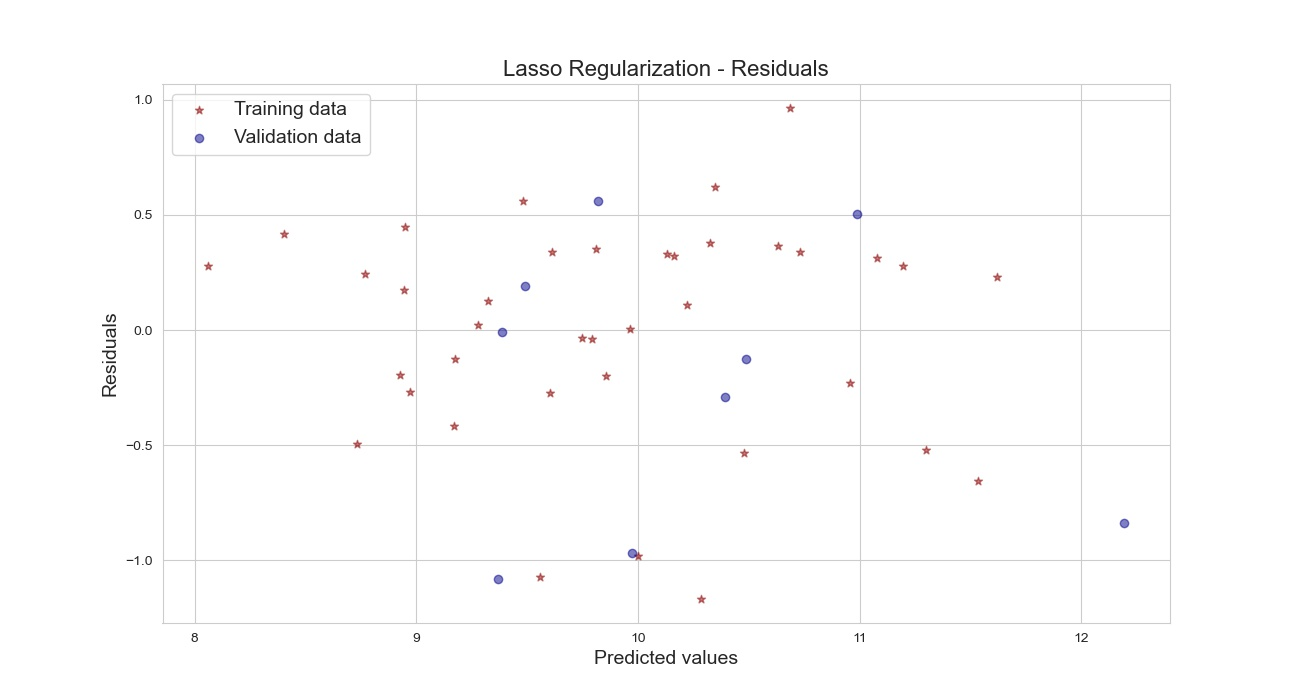
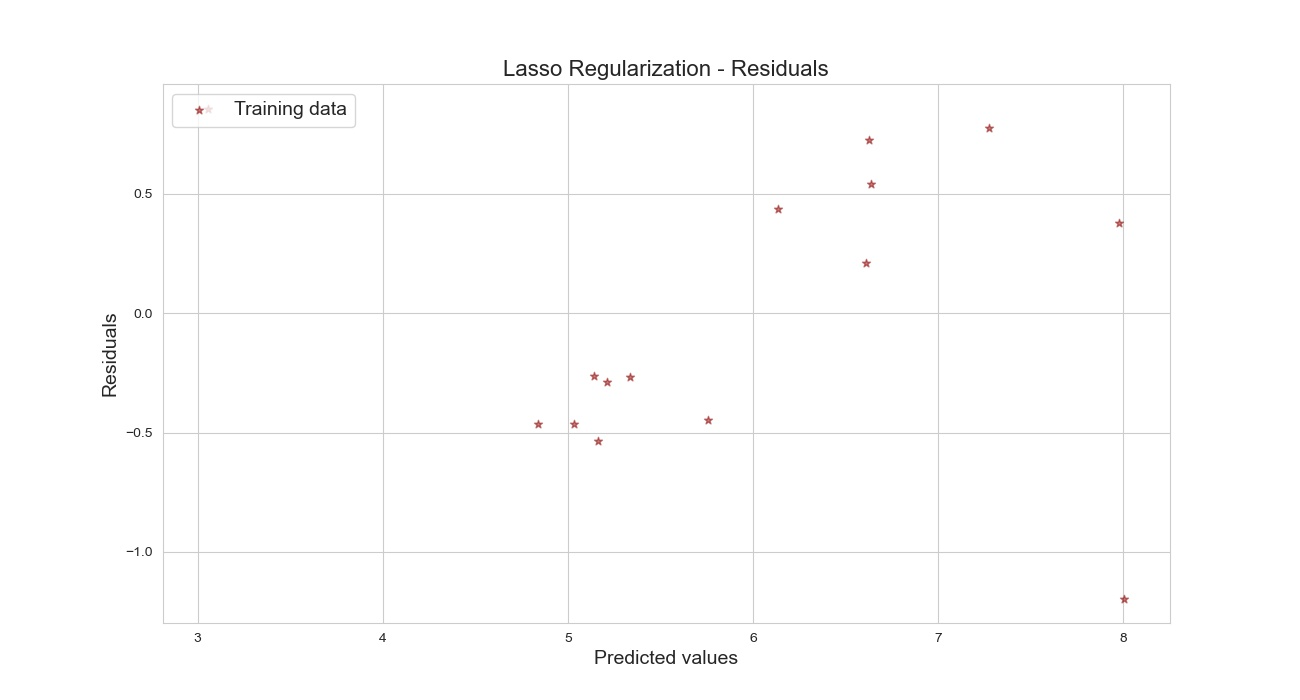
Added changes to results page images

diff --git a/python_modeller.py b/python_modeller.py
@@ -394,8 +394,6 @@ def run_model(data_R, predictors, material, polyFlag, valFlag):
         results = results[['Algorithm', 'Train_RMSE', 'Validation_RMSE', 'Train_R2', 'Validation_R2']]
   
     
-    
-    
     # Lasso
    
     lasso = LassoCV(alphas = [0.0001, 0.0003, 0.0006, 0.001, 0.003, 0.006, 0.01, 0.03, 0.06, 0.1,
@@ -415,36 +413,59 @@ def run_model(data_R, predictors, material, polyFlag, valFlag):
     print("Fine Tuned Alpha :", alpha)
    
     y_train_las = lasso.predict(X_train)
-    
+
     if valFlag==True:
         y_val_las = lasso.predict(X_val)
     
+
+    sns.set_style('whitegrid')
     # Plot residuals
-    plt.figure(figsize=(13,7))
+    plt.figure(figsize=(10,9))
     plt.scatter(y_train_las, y_train_las - y_train, c = "darkred", marker = "*", alpha=0.5, label = "Training data")
+    
+    limits_list = y_train_las
+    #print(8)
+    
     if valFlag==True:
         plt.scatter(y_val_las, y_val_las - y_val, c = "darkblue", alpha=0.5, label = "Validation data")
+        limits_list = np.concatenate((y_train_las, y_val_las))
+    
+    #print(9)    
+    lineStart = limits_list.min()-1
+    lineEnd = limits_list.max()+1
       
-    plt.title("Lasso Regularization - Residuals",fontsize=16)
-    plt.xlabel("Predicted values",fontsize=14)
-    plt.ylabel("Residuals",fontsize=14)
-    plt.legend(loc = "upper left",fontsize=14)
-    plt.savefig('static/plots/Plot_LASSO_Residuals.jpg')
+    plt.title("LASSO Residuals",fontsize=16)
+    plt.xlabel("Predicted values",fontsize=10)
+    plt.ylabel("Residuals",fontsize=10)
+    plt.legend(loc = "upper left",fontsize=10)
+        
+    plt.plot([lineStart,lineEnd],[0,0], color='orange',marker = 'o')
+    plt.xlim(lineStart,lineEnd)
+    plt.savefig('./www/Plot_LASSO_Residuals.jpg', bbox_inches = 'tight',dpi=200)
+
     
     # Plot predictions
     plt.figure(figsize=(10,9))
+    
+    limits_list = y_train_las
+    
     plt.scatter(y_train_las, y_train, c = "darkred", alpha=0.5, marker = "*", label = "Training data")
     if valFlag==True:
         plt.scatter(y_val_las, y_val, c = "darkblue", alpha=0.5, label = "Validation data")
-      
-    plt.title("Lasso Regularization - Predicted vs Real",fontsize=16)
+        limits_list = np.concatenate((y_train_las, y_val_las))
+
+    lineStart = limits_list.min()-1
+    lineEnd =limits_list.max()+1
+    
+    plt.title("LASSO - Real v/s Predicted",fontsize=16)
     plt.xlabel("Predicted values",fontsize=14)
     plt.ylabel("Real values",fontsize=14)
-    x1, y1 = [-2,3],[-2,3]
-    x2, y2 = [-2,3], [-2,3]
-    plt.plot(x1, y1, x2, y2, marker = 'o')
     plt.legend(loc = "upper left",fontsize=14)
-    plt.savefig('static/plots/Plot_LASSO_Predicted.jpg')
+    
+    plt.plot([lineStart,lineEnd],[lineStart,lineEnd] , color='orange',marker = 'o')
+    plt.xlim(lineStart,lineEnd)
+    plt.ylim(lineStart,lineEnd)
+    plt.savefig('./www/Plot_LASSO_Predicted.jpg', bbox_inches = 'tight',dpi=200)
     
     # Plot important coefficients
     coefs = pd.Series(lasso.coef_, index = X_train.columns)
@@ -522,32 +543,54 @@ def run_model(data_R, predictors, material, polyFlag, valFlag):
     
     
     
+    sns.set_style('whitegrid')
     # Plot residuals
-    plt.figure(figsize=(13,7))
+    plt.figure(figsize=(10,9))
     plt.scatter(y_train_elastic_net, y_train_elastic_net - y_train, c = "darkred", marker = "*", alpha=0.5, label = "Training data")
+    
+    limits_list = y_train_elastic_net
+    #print(8)
+    
     if valFlag==True:
         plt.scatter(y_val_en, y_val_en - y_val, c = "darkblue", alpha=0.5, label = "Validation data")
-   
-    plt.title("Elastic Net Regularization",fontsize=16)
-    plt.xlabel("Predicted values",fontsize=14)
-    plt.ylabel("Residuals",fontsize=14)
-    plt.legend(loc = "upper left",fontsize=14)
-    plt.show()
+        limits_list = np.concatenate((y_train_elastic_net, y_val_en))
+    
+    #print(9)    
+    lineStart = limits_list.min()-1
+    lineEnd = limits_list.max()+1
+      
+    plt.title("Elastic Net Residuals",fontsize=16)
+    plt.xlabel("Predicted values",fontsize=10)
+    plt.ylabel("Residuals",fontsize=10)
+    plt.legend(loc = "upper left",fontsize=10)
+        
+    plt.plot([lineStart,lineEnd],[0,0], color='orange',marker = 'o')
+    plt.xlim(lineStart,lineEnd)
+    plt.savefig('./www/Plot_EN_Residuals.jpg', bbox_inches = 'tight',dpi=200)
+
     
     # Plot predictions
     plt.figure(figsize=(10,9))
+    
+    limits_list = y_train_elastic_net
+    
     plt.scatter(y_train_elastic_net, y_train, c = "darkred", alpha=0.5, marker = "*", label = "Training data")
     if valFlag==True:
         plt.scatter(y_val_en, y_val, c = "darkblue", alpha=0.5, label = "Validation data")
-      
-    plt.title("Elastic Net Regularization",fontsize=16)
+        limits_list = np.concatenate((y_train_elastic_net, y_val_en))
+
+    lineStart = limits_list.min()-1
+    lineEnd =limits_list.max()+1
+    
+    plt.title("Elastic Net - Real v/s Predicted",fontsize=16)
     plt.xlabel("Predicted values",fontsize=14)
     plt.ylabel("Real values",fontsize=14)
-    x1, y1 = [-1,3],[-1,3]
-    x2, y2 = [-1,3], [-1,3]
-    plt.plot(x1, y1, x2, y2, marker = 'o')
     plt.legend(loc = "upper left",fontsize=14)
-    plt.show()
+    
+    plt.plot([lineStart,lineEnd],[lineStart,lineEnd] , color='orange',marker = 'o')
+    plt.xlim(lineStart,lineEnd)
+    plt.ylim(lineStart,lineEnd)
+    plt.savefig('./www/Plot_EN_Predicted.jpg', bbox_inches = 'tight',dpi=200)
     
     # Plot important coefficients
     coefs = pd.Series(elastic_net.coef_, index = X_train.columns)
@@ -616,31 +659,54 @@ def run_model(data_R, predictors, material, polyFlag, valFlag):
     if valFlag==True:
         y_val_rdg = ridge.predict(X_val)
 
+    sns.set_style('whitegrid')
     # Plot residuals
-    plt.figure(figsize=(13,7))
+    plt.figure(figsize=(10,9))
     plt.scatter(y_train_rdg, y_train_rdg - y_train, c = "darkred", marker = "*", alpha=0.5, label = "Training data")
+    
+    limits_list = y_train_rdg
+    #print(8)
+    
     if valFlag==True:
         plt.scatter(y_val_rdg, y_val_rdg - y_val, c = "darkblue", alpha=0.5, label = "Validation data")
+        limits_list = np.concatenate((y_train_rdg, y_val_rdg))
+    
+    #print(9)    
+    lineStart = limits_list.min()-1
+    lineEnd = limits_list.max()+1
       
-    plt.title("Ridge Regularization",fontsize=16)
-    plt.xlabel("Predicted values",fontsize=14)
-    plt.ylabel("Residuals",fontsize=14)
-    plt.legend(loc = "upper left",fontsize=14)
-    plt.hlines(y = 0, xmin = 10.5, xmax = 13.5, color = "red")
-    plt.show()
+    plt.title("Ridge Residuals",fontsize=16)
+    plt.xlabel("Predicted values",fontsize=10)
+    plt.ylabel("Residuals",fontsize=10)
+    plt.legend(loc = "upper left",fontsize=10)
+        
+    plt.plot([lineStart,lineEnd],[0,0], color='orange',marker = 'o')
+    plt.xlim(lineStart,lineEnd)
+    plt.savefig('./www/Plot_RG_Residuals.jpg', bbox_inches = 'tight',dpi=200)
+
     
     # Plot predictions
-    plt.figure(figsize=(13,7))
+    plt.figure(figsize=(10,9))
+    
+    limits_list = y_train_rdg
+    
     plt.scatter(y_train_rdg, y_train, c = "darkred", alpha=0.5, marker = "*", label = "Training data")
     if valFlag==True:
         plt.scatter(y_val_rdg, y_val, c = "darkblue", alpha=0.5, label = "Validation data")
-      
-    plt.title("Ridge Regularization",fontsize=16)
+        limits_list = np.concatenate((y_train_rdg, y_val_rdg))
+
+    lineStart = limits_list.min()-1
+    lineEnd =limits_list.max()+1
+    
+    plt.title("Ridge - Real v/s Predicted",fontsize=16)
     plt.xlabel("Predicted values",fontsize=14)
     plt.ylabel("Real values",fontsize=14)
     plt.legend(loc = "upper left",fontsize=14)
-    plt.plot([10.5, 13.5], [10.5, 13.5], c = "red")
-    plt.show()
+    
+    plt.plot([lineStart,lineEnd],[lineStart,lineEnd] , color='orange',marker = 'o')
+    plt.xlim(lineStart,lineEnd)
+    plt.ylim(lineStart,lineEnd)
+    plt.savefig('./www/Plot_RG_Predicted.jpg', bbox_inches = 'tight',dpi=200)
     
     # Plot important coefficients
     coefs = pd.Series(ridge.coef_, index = X_train.columns)
